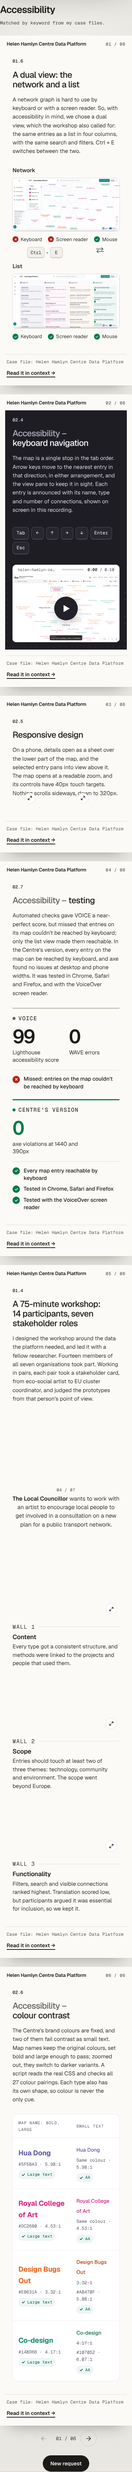
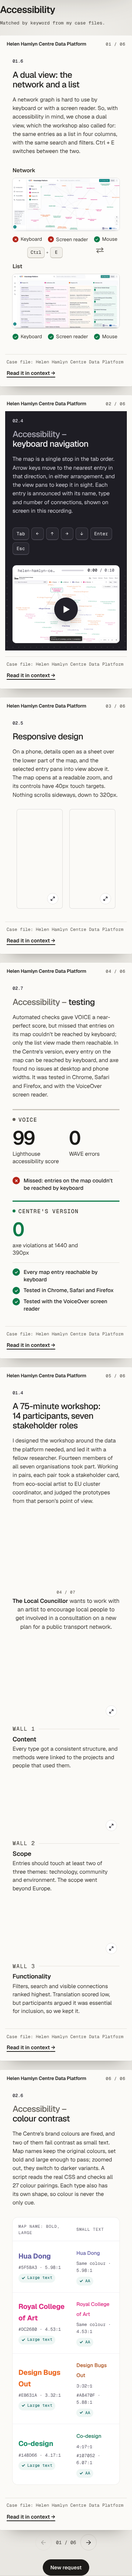
Home: a printed card is the case-file card at its own size
No scaling: the sheet is the width of a case-file card plus its margin, and
the room for the card is the case file's own card height, so the card prints
at exactly its proportions on the case page with the sheet as its background.
A card that is naturally shorter keeps its height and sits at the top of the
sheet; every sheet stays the same size.

Claude-Session: https://claude.ai/code/session_01QqmSAfmNMzTCx9ZFJoDrrH

diff --git a/src/app/printer.css b/src/app/printer.css
@@ -640,9 +640,14 @@
   .sheets {
     /* from the screen edge to the page's content: what is left over once the shell is centred, plus its gutter */
     --edge: calc(max((100vw - var(--wrap-max)) / 2, 0px) + var(--gutter));
-    /* as wide as a case-file card plus the sheet's margins, so a printed card is the card at its own size */
-    --sheet-w: min(876px, 100%);
-    --sheet-h: clamp(520px, calc(100svh - 170px), 920px);
+    /* a printed card is the case-file card at its own size: the same width (836px on the case page) and the same
+       height (--cf-card-h, as case-file.css sets it), with the sheet's margin around it. A shorter card keeps its own
+       height and sits at the top; the sheet stays the same size either way. */
+    --card-w: 836px;
+    --sheet-pad: 18px;
+    --cf-card-h: min(calc(100svh - 3rem), 58rem);
+    --sheet-w: min(calc(var(--card-w) + 2 * var(--sheet-pad)), 100%);
+    --sheet-h: calc(var(--cf-card-h) + 150px);
     display: flex;
     gap: var(--s5);
     max-width: none;
@@ -679,11 +684,15 @@
     margin-bottom: 0;
   }
   .sheets .s-card {
+    flex: none;
+    height: var(--cf-card-h);
     margin-top: 0;
   }
-  /* the card is as tall as the room the sheet gives it; a card that is naturally shorter stays shorter */
-  .sheets .cf-print {
-    --cf-card-h: calc(var(--sheet-h) - 150px);
+  .sheets .sheet.has-card {
+    padding: var(--sheet-pad);
+  }
+  .sheets .sheet.has-card .s-foot {
+    margin-top: auto;
   }
   .sheets .fit {
     height: 100%;
@@ -822,7 +831,7 @@
   box-shadow: none;
 }
 .sheet.has-card {
-  padding: clamp(14px, 1.6vw, 18px) clamp(14px, 1.6vw, 18px) clamp(12px, 1.6vw, 16px);
+  padding: clamp(14px, 1.6vw, 18px);
 }
 .sheet.has-card .s-top {
   margin-bottom: var(--s3);

diff --git a/src/components/Sheet.tsx b/src/components/Sheet.tsx
@@ -36,9 +36,7 @@ export function Sheet({ card, index, total, media, whole, current = true, headin
         </span>
       </div>
       {whole ? (
-        <div className="s-card">
-          <FitMedia>{whole}</FitMedia>
-        </div>
+        <div className="s-card">{whole}</div>
       ) : (
         <>
           <div className="s-head">
